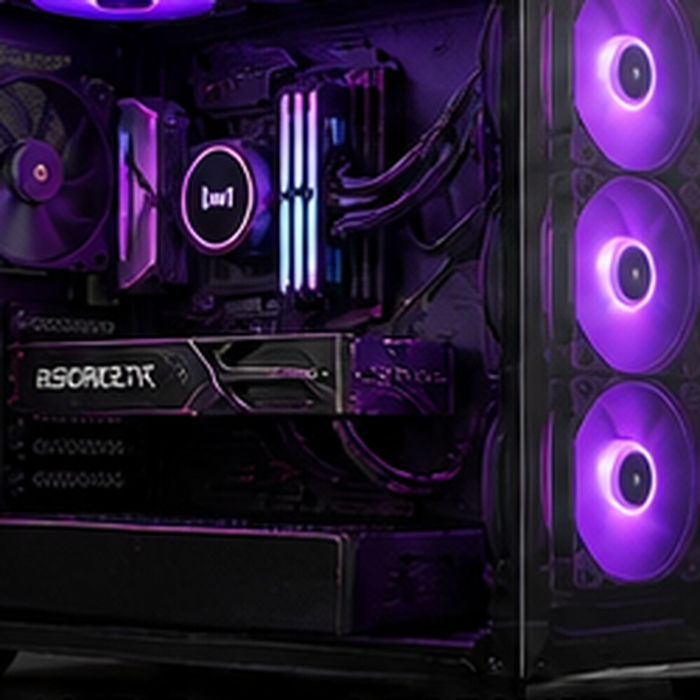
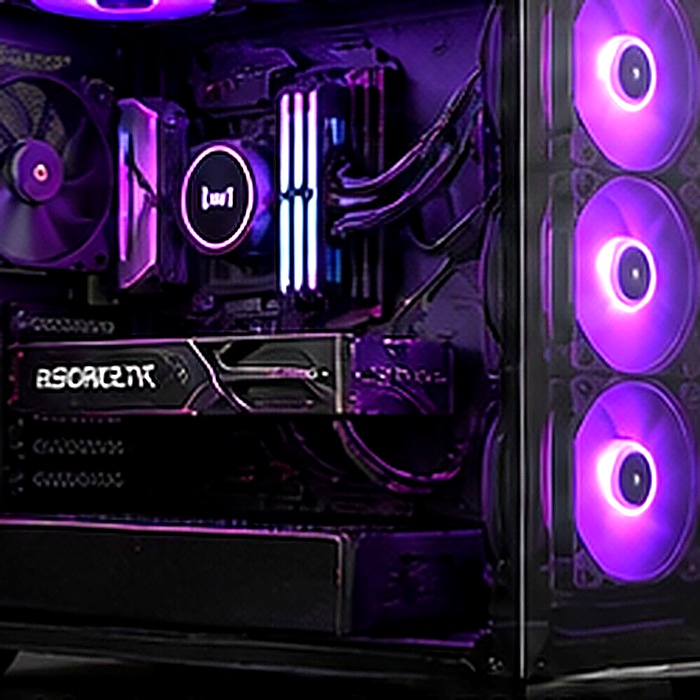
Fix visibility for last 4 GPU images and add image fallback

diff --git a/src/pages/DevicesPage.tsx b/src/pages/DevicesPage.tsx
@@ -161,7 +161,13 @@ const DevicesPage: React.FC = () => {
                           src={device.image_url}
                           alt={device.name}
                           className="w-full h-full object-cover rounded-xl"
-                          style={{ filter: 'contrast(1.08) saturate(1.15)' }}
+                          style={{ filter: 'brightness(1.14) contrast(1.12) saturate(1.12)' }}
+                          onError={(e) => {
+                            const el = e.currentTarget;
+                            const clean = (device.image_url || '').split('?')[0];
+                            if (el.src.endsWith(clean)) return;
+                            el.src = clean;
+                          }}
                         />
                       ) : (
                         <div className="w-full h-full flex items-center justify-center">
